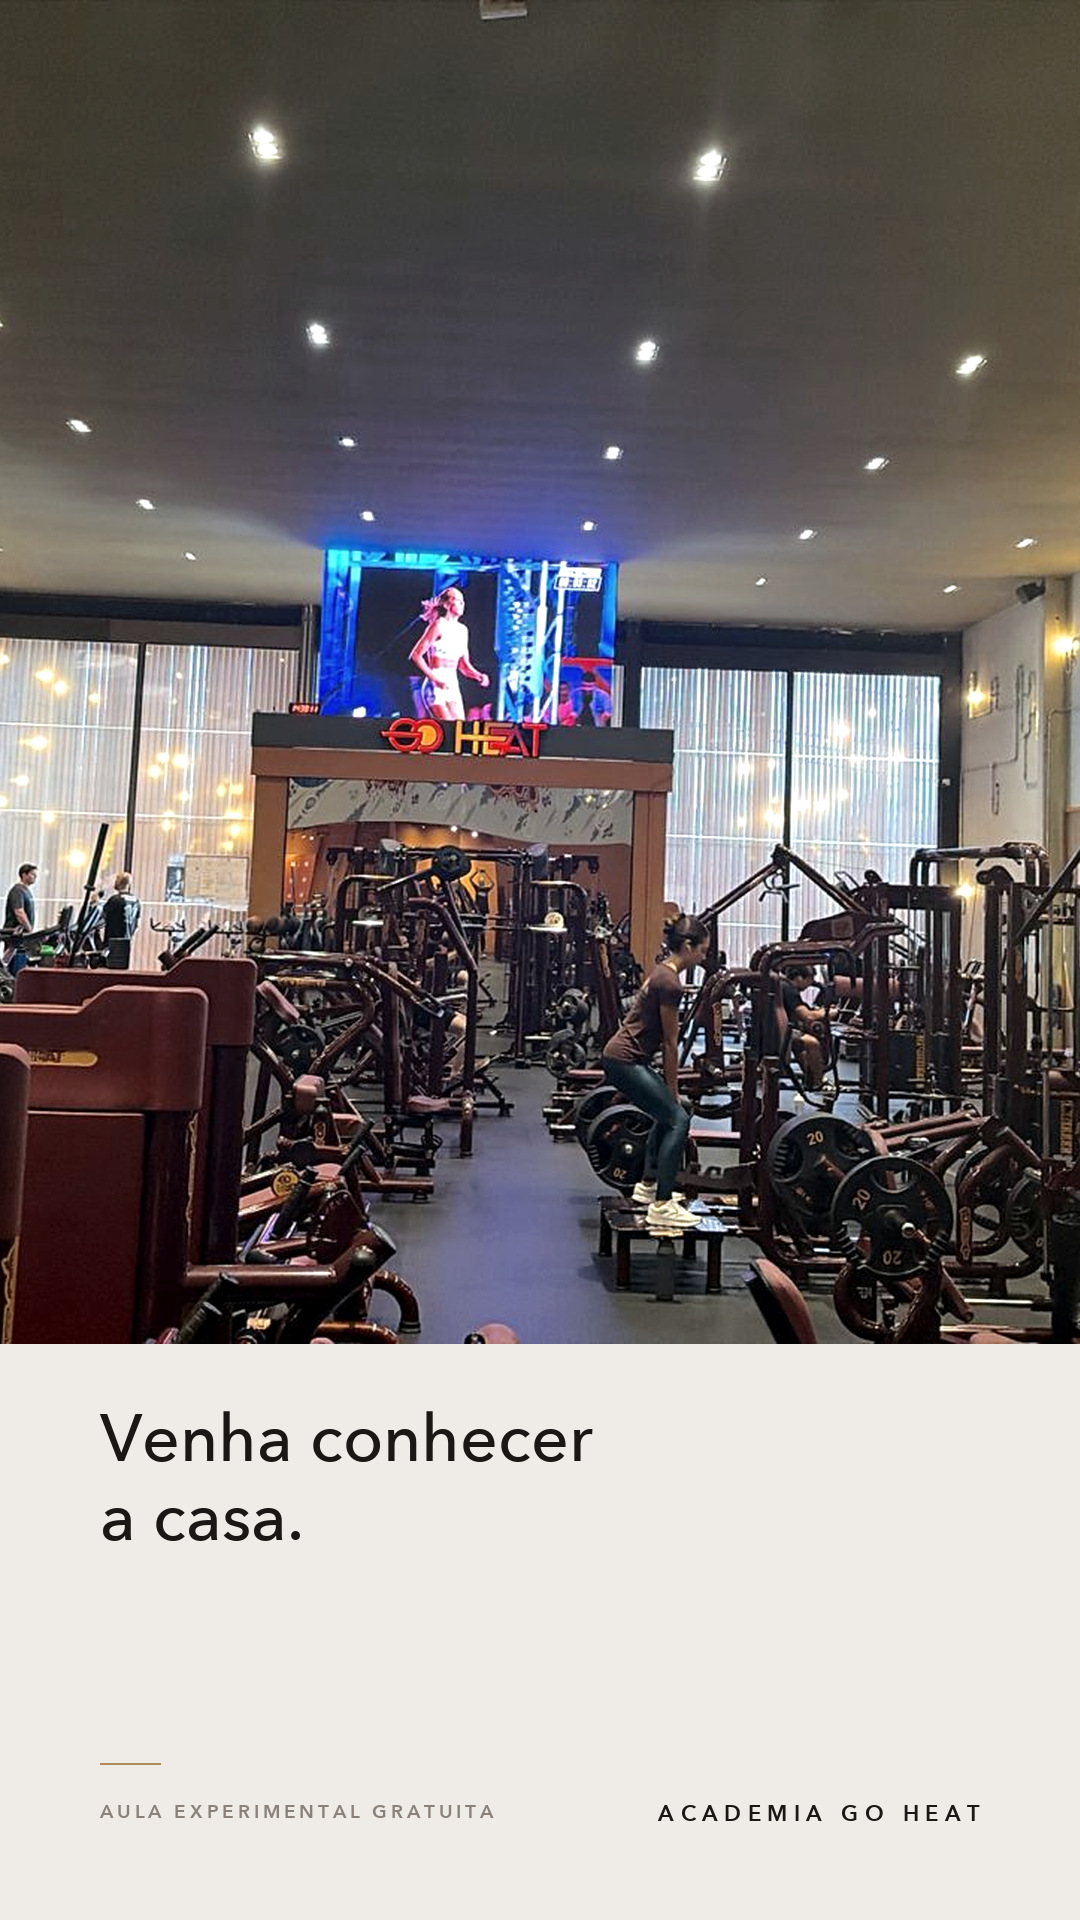
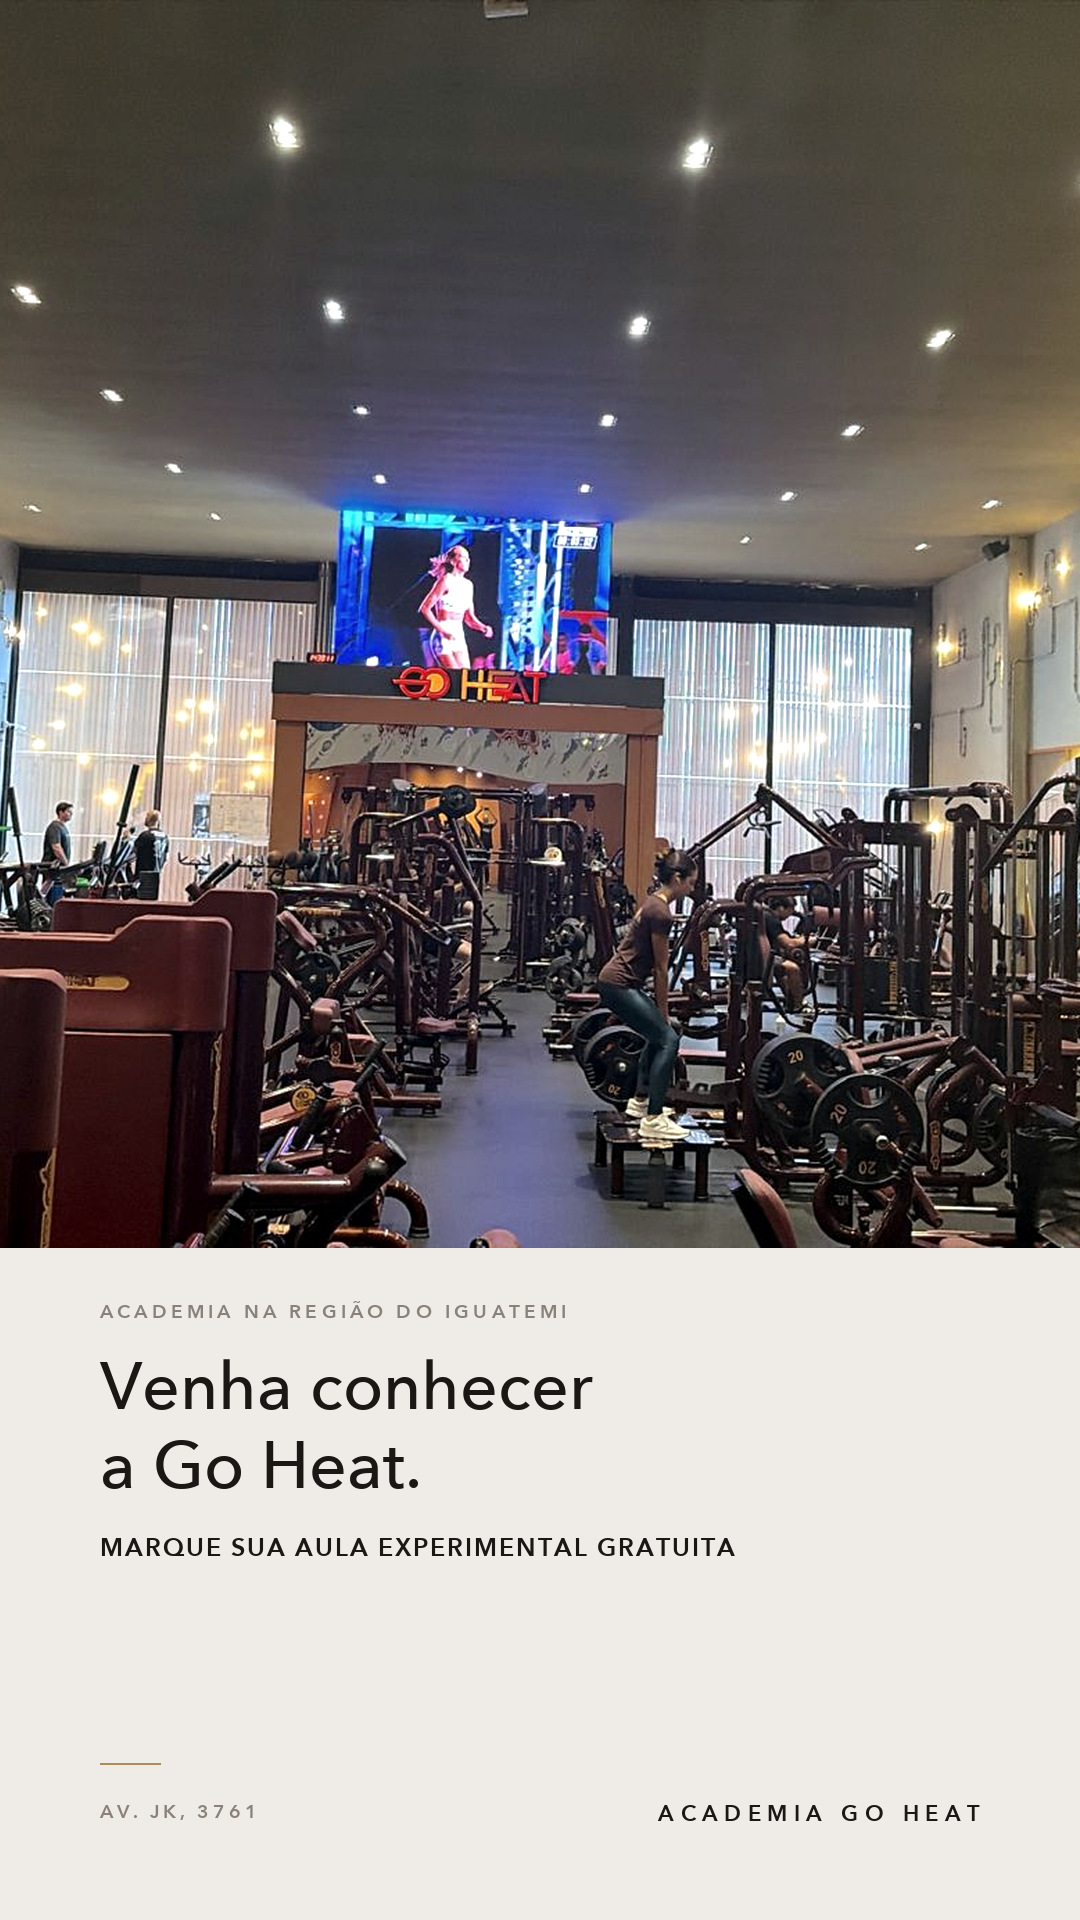
Go Heat: artes de convite v3 — mix fachada+salao, CTA na arte, Iguatemi
AD07/AD08 passam a juntar fachada e interior na mesma peca (a fachada diz
onde e, o interior diz o que e). Toda peca ganha a chamada DENTRO da arte
logo abaixo da headline, porque no feed a legenda quase ninguem abre.
Rodape fixa o lugar: academia na regiao do Iguatemi. O 'venha conhecer a
casa' virou 'venha conhecer a Go Heat'.

No motor premium: bloco_foto aceita duas fotos (colunas se o bloco for
deitado, faixas se for em pe), ajuste de cor por foto e campo cta.

diff --git a/go-heat/convite/index.html b/go-heat/convite/index.html
@@ -117,6 +117,9 @@ p{margin:0 0 14px}
   border-radius:10px;padding:12px 14px;margin:0;
 }
 .copy b{color:var(--ink);font-weight:600}
+.cta-arte{font-family:"IBM Plex Mono",monospace;font-size:11px;letter-spacing:.06em;
+  color:var(--ink);margin:0;padding:6px 10px;border:1px solid var(--line-strong);
+  border-radius:8px;display:inline-block;align-self:flex-start}
 .formatos{margin-top:auto;padding-top:6px}
 .formatos a{
   font-family:"IBM Plex Mono",monospace;font-size:11px;color:var(--brand);
@@ -149,7 +152,7 @@ li{margin-bottom:6px}
 <header>
   <p class="eyebrow">Go Heat · 22 de setembro de 2026</p>
   <h1>Oito artes de convite</h1>
-  <p class="sub">Mesma linha premium dos carrosséis — foto da casa, papel areia, sem laranja. Duas peças de fachada para fixar o nome, seis de dentro da academia, e em todas a mesma chamada: marque sua aula experimental gratuita.</p>
+  <p class="sub">Mesma linha premium dos carrosséis — foto da casa, papel areia, sem laranja. Duas peças juntam fachada e salão na mesma arte, seis mostram a casa por dentro, e em todas a chamada está na arte: marque sua aula experimental gratuita.</p>
 </header>
 
 <h2>Por que convite agora</h2>
@@ -157,7 +160,8 @@ li{margin-bottom:6px}
 <div class="card">
   <p>As artes de setembro que estão no ar falam de <strong>oferta</strong> ("cinco dias liberados", "sem pagar nada"). Elas funcionam — o conjunto masculino de luta está fazendo conversa a R$4,94. Mas toda a conta hoje diz a mesma coisa, do mesmo jeito, e quem já viu não tem por que olhar de novo.</p>
   <p>Estas oito mudam o convite de lugar: em vez de anunciar o preço da experiência, anunciam <strong>a casa</strong> — e deixam a aula experimental gratuita como consequência natural da visita. É a leitura que o próprio perfil já provou: conteúdo que mostra o espaço e gente real rende muito mais que peça publicitária.</p>
-  <p style="margin-bottom:0">Some-se a isso o trabalho de <strong>fixar o nome</strong>: a assinatura agora é <strong>ACADEMIA GO HEAT</strong> por extenso em todas as peças, e duas delas mostram a fachada com o letreiro aceso e o 3761 na porta. Quem vê o anúncio no feed e passa de carro na Av. JK reconhece o mesmo lugar — é assim que anúncio de negócio local vira ponto de referência na cidade.</p>
+  <p>Some-se a isso o trabalho de <strong>fixar o nome</strong>: a assinatura é <strong>ACADEMIA GO HEAT</strong> por extenso em todas as peças, e as duas primeiras juntam <strong>a fachada e o salão na mesma arte</strong> — a fachada diz onde é, o interior diz o que é. Quem vê o anúncio no feed e passa de carro na Av. JK reconhece o mesmo lugar.</p>
+  <p style="margin-bottom:0"><strong>A chamada está dentro da arte, não na legenda.</strong> Toda peça traz, logo abaixo da headline, o que a pessoa tem de fazer — agende, marque, a Go Heat te espera — porque no feed a legenda quase ninguém abre. E o rodapé fixa o lugar: <strong>academia na região do Iguatemi</strong>, referência que todo mundo em Rio Preto entende sem mapa.</p>
 </div>
 
 <h2>As peças</h2>
@@ -165,11 +169,12 @@ li{margin-bottom:6px}
 <div class="pecas">
 
   <figure class="peca" style="margin:0">
-    <img src="artes/CONV_F1_FACHADA_4x5.jpg" alt="Fachada da Academia Go Heat à noite, com o letreiro aceso">
+    <img src="artes/CONV_F1_FACHADA_4x5.jpg" alt="Fachada da Academia Go Heat ao lado do salão de musculação">
     <figcaption class="corpo">
-      <span class="tag">AD07 · CONV_F1_FACHADA <span class="voz">serifa</span></span>
+      <span class="tag">AD07 · CONV_F1_FACHADA <span class="voz">serifa</span> <span class="voz">mix fachada</span></span>
       <p class="head-peca">Marque sua aula experimental.</p>
-      <p class="copy"><b>Copy sugerida:</b> É gratuita e sem compromisso nenhum: você escolhe o dia, conhece a Academia Go Heat por dentro e faz uma aula. Av. JK, 3761, em Rio Preto. Chame no direct para marcar o horário.</p>
+      <p class="cta-arte">na arte: A GO HEAT TE ESPERA</p>
+      <p class="copy"><b>Legenda sugerida:</b> É gratuita e sem compromisso: você escolhe o dia, conhece a Academia Go Heat por dentro e faz uma aula. Av. JK, 3761, região do Iguatemi, em Rio Preto. Chame no direct.</p>
       <p class="formatos">
         <a href="artes/CONV_F1_FACHADA_4x5.jpg">4:5</a>
         <a href="artes/CONV_F1_FACHADA_1x1.jpg">1:1</a>
@@ -179,11 +184,12 @@ li{margin-bottom:6px}
   </figure>
 
   <figure class="peca" style="margin:0">
-    <img src="artes/CONV_F2_FACHADA_4x5.jpg" alt="Fachada da Academia Go Heat com o número 3761 na entrada">
+    <img src="artes/CONV_F2_FACHADA_4x5.jpg" alt="Fachada da Academia Go Heat acima do corredor de máquinas">
     <figcaption class="corpo">
-      <span class="tag">AD08 · CONV_F2_FACHADA <span class="voz">grotesca</span></span>
-      <p class="head-peca">Venha conhecer a Academia Go Heat.</p>
-      <p class="copy"><b>Copy sugerida:</b> Musculação, muay thai, jiu-jitsu e turma de kids na mesma casa, na Av. JK, 3761. Sua primeira aula é experimental e gratuita — chame no direct e a gente marca.</p>
+      <span class="tag">AD08 · CONV_F2_FACHADA <span class="voz">grotesca</span> <span class="voz">mix fachada</span></span>
+      <p class="head-peca">Venha conhecer a Go Heat.</p>
+      <p class="cta-arte">na arte: AGENDE SUA AULA EXPERIMENTAL GRATUITA</p>
+      <p class="copy"><b>Legenda sugerida:</b> Musculação, muay thai, jiu-jitsu e turma de kids na mesma casa, na região do Iguatemi. Sua primeira aula é experimental e gratuita — chame no direct e a gente marca. Av. JK, 3761.</p>
       <p class="formatos">
         <a href="artes/CONV_F2_FACHADA_4x5.jpg">4:5</a>
         <a href="artes/CONV_F2_FACHADA_1x1.jpg">1:1</a>
@@ -197,7 +203,8 @@ li{margin-bottom:6px}
     <figcaption class="corpo">
       <span class="tag">AD09 · CONV_S1_SALAO2 <span class="voz">serifa</span></span>
       <p class="head-peca">Venha conhecer a Academia Go Heat.</p>
-      <p class="copy"><b>Copy sugerida:</b> Antes de decidir qualquer coisa, venha ver onde você treinaria. A aula experimental é gratuita e você marca pelo direct. Av. JK, 3761, Rio Preto.</p>
+      <p class="cta-arte">na arte: MARQUE SUA AULA EXPERIMENTAL GRATUITA</p>
+      <p class="copy"><b>Legenda sugerida:</b> Antes de decidir qualquer coisa, venha ver onde você treinaria. A aula experimental é gratuita e você marca pelo direct. Academia na região do Iguatemi.</p>
       <p class="formatos">
         <a href="artes/CONV_S1_SALAO2_4x5.jpg">4:5</a>
         <a href="artes/CONV_S1_SALAO2_1x1.jpg">1:1</a>
@@ -211,7 +218,8 @@ li{margin-bottom:6px}
     <figcaption class="corpo">
       <span class="tag">AD10 · CONV_S2_EQUIP <span class="voz">serifa</span></span>
       <p class="head-peca">A primeira aula é por nossa conta.</p>
-      <p class="copy"><b>Copy sugerida:</b> Sem plano, sem fidelidade, sem conversa de vendedor. Você entra, treina uma vez por nossa conta e decide depois. Chame no direct — Av. JK, 3761.</p>
+      <p class="cta-arte">na arte: AGENDE SUA AULA EXPERIMENTAL</p>
+      <p class="copy"><b>Legenda sugerida:</b> Sem plano, sem fidelidade, sem conversa de vendedor. Você entra, treina uma vez por nossa conta e decide depois. Av. JK, 3761, região do Iguatemi.</p>
       <p class="formatos">
         <a href="artes/CONV_S2_EQUIP_4x5.jpg">4:5</a>
         <a href="artes/CONV_S2_EQUIP_1x1.jpg">1:1</a>
@@ -224,8 +232,9 @@ li{margin-bottom:6px}
     <img src="artes/CONV_S3_ARCO_4x5.jpg" alt="Arco de luz e rack da Academia Go Heat">
     <figcaption class="corpo">
       <span class="tag">AD11 · CONV_S3_ARCO <span class="voz">serifa</span></span>
-      <p class="head-peca">Conheça antes de decidir.</p>
-      <p class="copy"><b>Copy sugerida:</b> Academia se escolhe entrando, não olhando foto. Venha ver o espaço, falar com os professores e fazer sua aula experimental gratuita. Av. JK, 3761.</p>
+      <p class="head-peca">Conheça nossa academia antes de decidir.</p>
+      <p class="cta-arte">na arte: MARQUE SUA AULA EXPERIMENTAL GRATUITA</p>
+      <p class="copy"><b>Legenda sugerida:</b> Academia se escolhe entrando, não olhando foto. Venha ver o espaço, falar com os professores e fazer sua aula experimental gratuita. Região do Iguatemi, Av. JK, 3761.</p>
       <p class="formatos">
         <a href="artes/CONV_S3_ARCO_4x5.jpg">4:5</a>
         <a href="artes/CONV_S3_ARCO_1x1.jpg">1:1</a>
@@ -239,7 +248,8 @@ li{margin-bottom:6px}
     <figcaption class="corpo">
       <span class="tag">AD12 · CONV_G1_MAQUINA <span class="voz">grotesca</span></span>
       <p class="head-peca">Marque sua aula experimental.</p>
-      <p class="copy"><b>Copy sugerida:</b> Gratuita e sem compromisso. Musculação, lutas e turmas de kids no mesmo endereço: Av. JK, 3761, Rio Preto. Escolha o dia pelo direct.</p>
+      <p class="cta-arte">na arte: A GO HEAT TE ESPERA</p>
+      <p class="copy"><b>Legenda sugerida:</b> Gratuita e sem compromisso. Musculação, lutas e turmas de kids no mesmo endereço, na região do Iguatemi. Escolha o dia pelo direct — Av. JK, 3761.</p>
       <p class="formatos">
         <a href="artes/CONV_G1_MAQUINA_4x5.jpg">4:5</a>
         <a href="artes/CONV_G1_MAQUINA_1x1.jpg">1:1</a>
@@ -253,7 +263,8 @@ li{margin-bottom:6px}
     <figcaption class="corpo">
       <span class="tag">AD13 · CONV_G2_CORREDOR <span class="voz">grotesca</span></span>
       <p class="head-peca">Entre. Treine. Depois decida.</p>
-      <p class="copy"><b>Copy sugerida:</b> A ordem é essa mesmo. Você conhece a academia, faz uma aula experimental gratuita e só então pensa em matrícula. Chame no direct — Av. JK, 3761.</p>
+      <p class="cta-arte">na arte: AGENDE SUA AULA EXPERIMENTAL GRATUITA</p>
+      <p class="copy"><b>Legenda sugerida:</b> A ordem é essa mesmo. Você conhece a academia, faz uma aula experimental gratuita e só então pensa em matrícula. Chame no direct — Av. JK, 3761, região do Iguatemi.</p>
       <p class="formatos">
         <a href="artes/CONV_G2_CORREDOR_4x5.jpg">4:5</a>
         <a href="artes/CONV_G2_CORREDOR_1x1.jpg">1:1</a>
@@ -266,8 +277,9 @@ li{margin-bottom:6px}
     <img src="artes/CONV_G3_SALAO_4x5.jpg" alt="Salão da Academia Go Heat visto de dentro">
     <figcaption class="corpo">
       <span class="tag">AD14 · CONV_G3_SALAO <span class="voz">grotesca</span></span>
-      <p class="head-peca">Venha conhecer a casa.</p>
-      <p class="copy"><b>Copy sugerida:</b> Escolha o dia e o horário que cabem na sua rotina — a gente te recebe, mostra a casa e coloca você para treinar. Aula experimental gratuita na Av. JK, 3761.</p>
+      <p class="head-peca">Venha conhecer a Go Heat.</p>
+      <p class="cta-arte">na arte: MARQUE SUA AULA EXPERIMENTAL GRATUITA</p>
+      <p class="copy"><b>Legenda sugerida:</b> Escolha o dia e o horário que cabem na sua rotina — a gente te recebe, mostra a casa e coloca você para treinar. Aula experimental gratuita na Av. JK, 3761.</p>
       <p class="formatos">
         <a href="artes/CONV_G3_SALAO_4x5.jpg">4:5</a>
         <a href="artes/CONV_G3_SALAO_1x1.jpg">1:1</a>
@@ -311,7 +323,7 @@ li{margin-bottom:6px}
 
 <div class="card">
   <ul>
-    <li>Endereço nas peças e na mensagem de boas-vindas do Direct: <strong>Av. JK, 3761</strong>.</li>
+    <li>Endereço nas peças e na mensagem de boas-vindas do Direct: <strong>Av. JK, 3761</strong> — região do Iguatemi.</li>
     <li>Um conjunto por criativo, como no lote anterior — nada de juntar as oito no mesmo conjunto.</li>
     <li>Teto de gasto da conta: R$ 2.600, com R$ 1.627 já usados. Ao ritmo de hoje a folga vai até o começo de outubro; subir oito conjuntos novos encurta isso para poucos dias.</li>
     <li>As oito saem de <code>gerar_convite_set26.py</code>, que reaproveita o motor da linha premium — mexer no visual se faz lá, num lugar só.</li>
